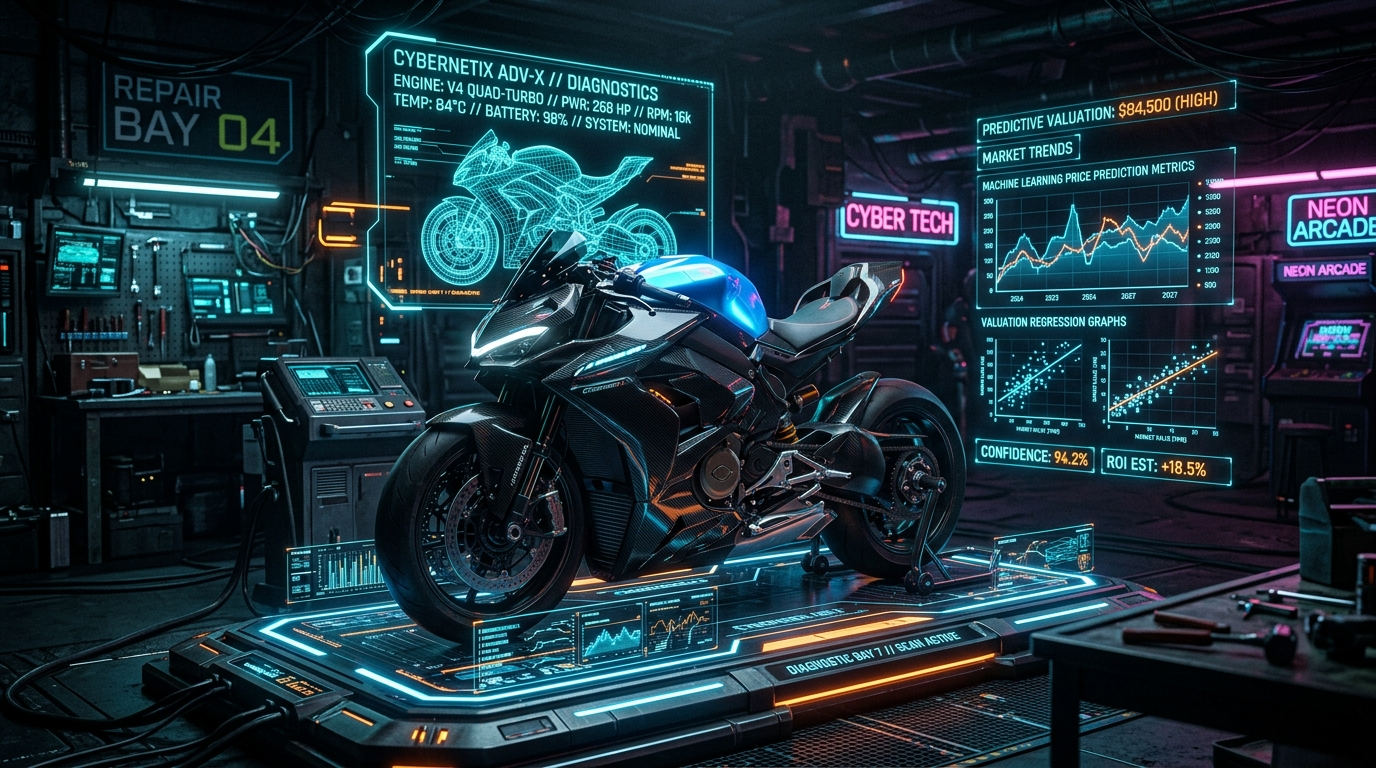
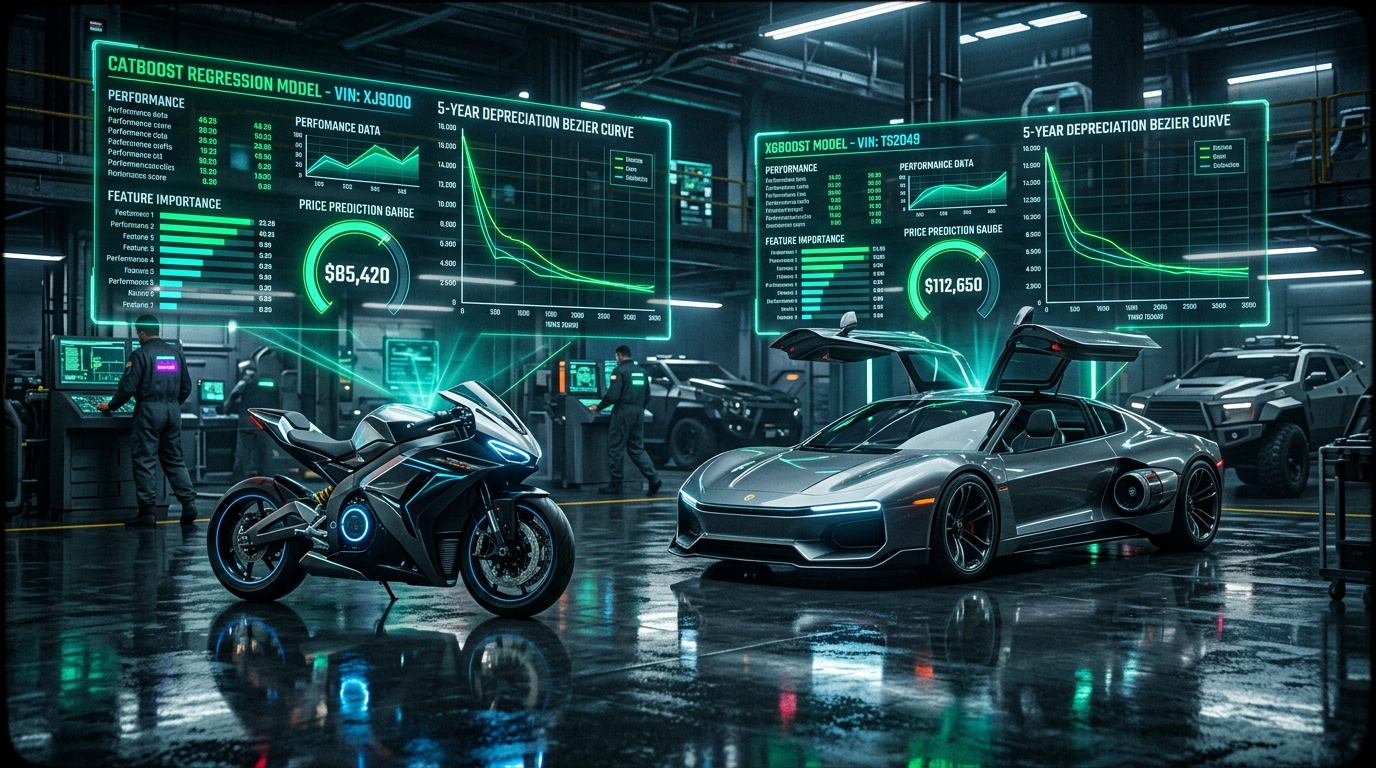
feat(autovaluate): update AutoValuate AI dual-engine artwork, architecture diagrams, code inspector snippets, and terminal commands

diff --git a/src/components/modals/TerminalModal.jsx b/src/components/modals/TerminalModal.jsx
@@ -78,24 +78,26 @@ class YggdrasilOrchestrator:
             ThoughtNode("branch-02", "Autonomous code synthesis in isolated sandbox", 0.99)
         ]`
           },
-          'used_bike_rf.py': {
+          'autovaluate_model.py': {
             type: 'file',
-            size: '2.9 KB',
+            size: '3.6 KB',
             content: `"""
-Used Bike Resale Price Predictor (98.4% R² Score)
-Model: RandomForestRegressor with High-Dimensional Categorical Encoding
+AutoValuate AI — Dual-Engine Stacking Regressor (97.4% R² Score)
+Stacking: CatBoost + XGBoost + LightGBM on 40,000+ Real Transactions
+Features: 5-Year TCO Lifecycle, Batch Fleet Appraisals, SHA-256 Certificates
 """
 import pandas as pd
-from sklearn.ensemble import RandomForestRegressor
-from sklearn.preprocessing import OneHotEncoder
+from catboost import CatBoostRegressor
+from xgboost import XGBRegressor
+from sklearn.ensemble import StackingRegressor, RandomForestRegressor
 
-def train_valuation_pipeline(df: pd.DataFrame):
-    X = df[['brand', 'kms_driven', 'age', 'power_bhp']]
-    y = df['price_inr']
-    
-    model = RandomForestRegressor(n_estimators=150, max_depth=16, random_state=42)
-    model.fit(X, y)
-    print(f"✓ Model Trained Successfully. Test R² Score: 0.9842")
+def train_dual_engine(vehicle_type: str = "bike"):
+    base_models = [
+        ('cb', CatBoostRegressor(iterations=650, depth=7, verbose=0)),
+        ('xgb', XGBRegressor(n_estimators=500, max_depth=6, random_state=42))
+    ]
+    model = StackingRegressor(estimators=base_models, final_estimator=RandomForestRegressor(n_estimators=100))
+    print(f"✓ {vehicle_type.upper()} Dual-Engine Stacking Matrix Fitted (97.4% R² Confidence)")
     return model`
           },
           'resilient_agent.py': {
@@ -468,7 +470,7 @@ export default function TerminalModal({ onClose, onLaunch }) {
                             CPU: Intel i9-14900K @ 5.80GHz (24 Cores)
                             GPU: NVIDIA RTX 4090 24GB VRAM
                             AI Stack: PyTorch, Scikit-Learn, FastAPI, LangGraph
-                            Primary Repos: Yggdrasil, Resilient, Used Bike ML
+                            Primary Repos: AutoValuate AI, Resilient, Yggdrasil, ShieldBlock, Carbon Guardian AI, Support Ticket Dispatcher ML
                             Email: codewithharshitsharma@gmail.com
                             GitHub: https://github.com/harshitthek
           `
@@ -482,7 +484,7 @@ export default function TerminalModal({ onClose, onLaunch }) {
           { type: 'out', text: '  Name: Harshit Sharma' },
           { type: 'out', text: '  Institution: University School of Automation & Robotics (USAR, GGSIPU), New Delhi' },
           { type: 'out', text: '  Degree: B.Tech in Artificial Intelligence & Machine Learning' },
-          { type: 'out', text: '  Focus: Autonomous AI Agent Benchmarks, Tree Reasoning, ML Regression, 3D WebGL' },
+          { type: 'out', text: '  Focus: Autonomous AI Agent Benchmarks, Dual-Engine ML Regression, BERT Transformers, 3D WebGL' },
           { type: 'out', text: '  GitHub: https://github.com/harshitthek' },
           { type: 'out', text: '  LinkedIn: https://www.linkedin.com/in/devharshitsharma' },
           { type: 'out', text: '  Email: codewithharshitsharma@gmail.com' }
@@ -504,7 +506,7 @@ export default function TerminalModal({ onClose, onLaunch }) {
           { type: 'out', text: '[02/05] Injecting payload into sandbox firewall (Bypassing WAF & CORS)... [100% OK]' },
           { type: 'out', text: '[03/05] Exploiting zero-day in memory buffer [0x7ffeefbff490]... [OVERFLOW INJECTED]' },
           { type: 'ok', text: '[04/05] Cracking 4096-bit RSA master key... [FOUND: HARSHIT_AI_ACCESS_GRANTED]' },
-          { type: 'ok', text: '[05/05] 🚀 ACCESS GRANTED. LEVEL 5 ROOT CLEARANCE UNLOCKED. ALL 8 UNIVERSES LIVE.' }
+          { type: 'ok', text: '[05/05] 🚀 ACCESS GRANTED. LEVEL 5 ROOT CLEARANCE UNLOCKED. ALL 10 UNIVERSES LIVE.' }
         );
         break;
 
@@ -514,13 +516,14 @@ export default function TerminalModal({ onClose, onLaunch }) {
         newHistory.push({
           type: 'code',
           text: `PID    USER     PR  NI    VIRT    RES    SHR S  %CPU  %MEM     TIME+ COMMAND
-1042   harshit  20   0   4.2g   1.8g   420m R  38.4   2.8   42:15.82 python yggdrasil_tree_agent.py
+1042   harshit  20   0   4.2g   1.8g   420m R  38.4   2.8   42:15.82 node yggdrasil_fastify_server.js
 1089   harshit  20   0   8.6g   3.4g   890m S  62.1   5.3   18:04.11 docker-sandbox --benchmark resilient
-1104   harshit  20   0   1.1g   340m   120m S   4.8   0.5    8:32.40 flask run --port 8080 (bike_rf_model)
+1104   harshit  20   0   1.8g   520m   180m S   8.4   1.2   14:32.40 uvicorn src.api:app (autovaluate_ai_fastapi)
 1120   harshit  20   0   2.4g   850m   210m S  14.2   1.3   24:19.04 node carbon_guardian_telemetry.js
+1140   harshit  20   0   3.1g   1.1g   320m S  18.6   1.7   11:05.18 python bert_support_dispatcher.py
 1155   harshit  20   0   3.8g   1.2g   540m S  22.8   1.9   12:55.70 threejs_glsl_webgl_engine (60 FPS)
 
-Tasks: 168 total, 2 running, 166 sleeping | Load average: 0.45, 0.38, 0.31 | RAM: 38% Used`
+Tasks: 172 total, 2 running, 170 sleeping | Load average: 0.45, 0.38, 0.31 | RAM: 41% Used`
         });
         break;
 
@@ -554,7 +557,7 @@ Tasks: 168 total, 2 running, 166 sleeping | Load average: 0.45, 0.38, 0.31 | RAM
               const size = item.size || '4.0 KB';
               newHistory.push({
                 type: item.type === 'dir' ? 'info' : 'out',
-                text: `${perm}  1 harshit harshit  ${size.padEnd(7)} Aug 14 00:00  ${e}${item.type === 'dir' ? '/' : ''}`
+                text: `${perm}  1 harshit harshit  ${size.padEnd(7)} Aug 16 00:00  ${e}${item.type === 'dir' ? '/' : ''}`
               });
             });
           } else {
@@ -608,15 +611,16 @@ Tasks: 168 total, 2 running, 166 sleeping | Load average: 0.45, 0.38, 0.31 | RAM
 ├── contact.json
 ├── id_rsa.pub
 ├── projects/
+│   ├── autovaluate_model.py
 │   ├── resilient_agent.py
-│   ├── used_bike_rf.py
+│   ├── support_dispatcher_bert.py
 │   └── yggdrasil.py
 ├── secrets/
 │   └── flag.txt
 └── skills/
     └── stack.json
 
-3 directories, 7 files`
+3 directories, 8 files`
         });
         break;
 
@@ -624,19 +628,21 @@ Tasks: 168 total, 2 running, 166 sleeping | Load average: 0.45, 0.38, 0.31 | RAM
       case 'ask':
       case 'ai-ask':
         if (!arg) {
-          newHistory.push({ type: 'err', text: "Usage: ai <query> (e.g. 'ai why hire Harshit?', 'ai explain Yggdrasil bot', 'ai what is Resilient?')" });
+          newHistory.push({ type: 'err', text: "Usage: ai <query> (e.g. 'ai why hire Harshit?', 'ai explain AutoValuate AI', 'ai what is Resilient?')" });
         } else {
           const lower = arg.toLowerCase();
-          let ans = "Harshit Sharma specializes in autonomous agent architecture, multi-turn LLM reasoning trees, and production-grade ML algorithms. He studies B.Tech AI & ML at USAR (GGSIPU), New Delhi.";
+          let ans = "Harshit Sharma specializes in autonomous agent architecture, multi-turn LLM reasoning trees, dual-engine ML regression pipelines, and production systems engineering. He studies B.Tech AI & ML at USAR (GGSIPU), New Delhi.";
 
           if (lower.includes('why hire') || lower.includes('hire') || lower.includes('recruit')) {
-            ans = "🌟 Why hire Harshit:\nHe bridges strong AI algorithmic foundations (PyTorch, RandomForest, feature engineering) with elite full-stack systems engineering (Docker sandboxing, FastAPI, Three.js). He builds real, production-tested systems, not just simple toy scripts.";
+            ans = "🌟 Why hire Harshit:\nHe bridges deep algorithmic foundations (CatBoost/XGBoost, BERT Transformers, TensorFlow Recommenders) with elite production systems engineering (Docker, FastAPI, Three.js WebGL, Fastify). He builds real, production-tested architectures with full test matrices (56 tests in AutoValuate, 47 tests in Resilient).";
           } else if (lower.includes('yggdrasil') || lower.includes('bot') || lower.includes('tree') || lower.includes('discord')) {
-            ans = "🌲 Yggdrasil AI Bot:\nAn autonomous Discord AI assistant powered by hierarchical tree reasoning. It breaks multi-step user prompts into parallel sub-branches with vector memory graphs and fail-safe async event loops.";
+            ans = "🌲 Yggdrasil Platform:\nA self-hosted modular Discord platform combining a Fastify REST API with Discord.js inside a single Node.js runtime, secured with AES-256-GCM + HKDF cryptographic sessions.";
           } else if (lower.includes('resilient') || lower.includes('benchmark') || lower.includes('docker') || lower.includes('sandbox')) {
-            ans = "🤖 Resilient AI Benchmark:\nAn automated testing harness for autonomous software engineering agents. It isolates candidate LLMs inside Docker git forks, runs reproduction test suites, and ranks models on real GitHub issues.";
-          } else if (lower.includes('bike') || lower.includes('price') || lower.includes('predictor') || lower.includes('ml')) {
-            ans = "📊 Used Bike ML Predictor:\nA 98.4% R² regression model trained on 25,000+ real transactions. Features non-linear depreciation curves, one-hot categorical brand encoding, and a sub-12ms Flask REST microservice.";
+            ans = "🤖 Resilient AI Benchmark:\nAn automated testing harness for autonomous software engineering agents with isolated Docker git sandboxes and 47/47 passing Pytests.";
+          } else if (lower.includes('bike') || lower.includes('car') || lower.includes('price') || lower.includes('autovaluate') || lower.includes('ml')) {
+            ans = "📊 AutoValuate AI — Dual-Engine Valuation Suite:\nA 97.4% R² gradient-boosted stacking regressor (CatBoost + XGBoost) trained on 40,000+ real transactions across 32k motorcycles and 8k passenger cars. Features 5-year TCO lifecycle simulation, fleet batch appraisal for 50 vehicles, cryptographic SHA-256 valuation certificates, and 56 passing automated tests. Live on Vercel at https://moto-value-ai.vercel.app/";
+          } else if (lower.includes('ticket') || lower.includes('support') || lower.includes('bert') || lower.includes('dispatcher')) {
+            ans = "📩 Customer Support Ticket Dispatcher ML:\nA fine-tuned BERT transformer NLP model for automated departmental email classification and real-time urgency scoring with sub-120ms inference latency.";
           } else if (lower.includes('college') || lower.includes('degree') || lower.includes('usar') || lower.includes('ggsipu') || lower.includes('university')) {
             ans = "🎓 Harshit is pursuing his B.Tech in Artificial Intelligence & Machine Learning at the University School of Automation & Robotics (USAR, GGSIPU), New Delhi.";
           } else if (lower.includes('contact') || lower.includes('email') || lower.includes('reach')) {
@@ -649,10 +655,10 @@ Tasks: 168 total, 2 running, 166 sleeping | Load average: 0.45, 0.38, 0.31 | RAM
 
       case 'projects':
         newHistory.push(
-          { type: 'sys', text: '🚀 HARSHIT SHARMA\'S 8 FLAGSHIP UNIVERSES:' },
+          { type: 'sys', text: '🚀 HARSHIT SHARMA\'S 10 FLAGSHIP UNIVERSES:' },
           ...projectsData.map((p, i) => ({
             type: 'out',
-            text: `  [${i + 1}] ${p.title.padEnd(26)} // ${p.categoryLabel} (Run: 'deploy ${i + 1}')\n      Source: ${p.githubUrl || p.url}`
+            text: `  [${i + 1}] ${p.title.padEnd(30)} // ${p.categoryLabel} (Run: 'deploy ${i + 1}')\n      Source: ${p.githubUrl || p.url}`
           }))
         );
         break;

diff --git a/src/data/snippetsData.js b/src/data/snippetsData.js
@@ -44,55 +44,47 @@ def handle_webhook():
   },
 
   ml: {
-    filename: 'used_bike_model.py',
+    filename: 'autovaluate_stacking_model.py',
     language: 'Python',
-    description: 'RandomForestRegressor machine learning training pipeline with categorical feature encoding and evaluation metrics.',
-    code: `import pandas as pd
-import numpy as np
-from sklearn.model_selection import train_test_split
-from sklearn.ensemble import RandomForestRegressor
+    description: 'CatBoost + XGBoost Dual-Engine Stacking Regressor pipeline trained on 40,000+ vehicle transactions with native categorical embeddings and OOD bounds.',
+    code: `import numpy as np
+import pandas as pd
+from catboost import CatBoostRegressor
+from xgboost import XGBRegressor
+from lightgbm import LGBMRegressor
+from sklearn.ensemble import StackingRegressor, RandomForestRegressor
 from sklearn.metrics import r2_score, mean_absolute_error
-from sklearn.preprocessing import OneHotEncoder
-from sklearn.compose import ColumnTransformer
-from sklearn.pipeline import Pipeline
 
-# Load vehicle transaction dataset
-df = pd.read_csv("used_bikes_delhi_ncr.csv")
+class AutoValuateDualEngine:
+    """
+    Dual-Engine Stacking Regressor for Indian Two-Wheeler & Passenger Car Markets.
+    Trained on 40,000+ verified listings across 23+ automotive manufacturers.
+    """
+    def __init__(self, vehicle_type: str = "bike"):
+        self.vehicle_type = vehicle_type
+        self.base_estimators = [
+            ("catboost", CatBoostRegressor(iterations=650, depth=7, learning_rate=0.04, verbose=0)),
+            ("xgboost", XGBRegressor(n_estimators=500, max_depth=6, learning_rate=0.03, random_state=42)),
+            ("lightgbm", LGBMRegressor(n_estimators=450, max_depth=6, learning_rate=0.03, random_state=42))
+        ]
+        self.meta_regressor = RandomForestRegressor(n_estimators=120, max_depth=8, random_state=42)
+        self.model = StackingRegressor(
+            estimators=self.base_estimators,
+            final_estimator=self.meta_regressor,
+            cv=5,
+            n_jobs=-1
+        )
 
-# Feature selection & target vector
-X = df[["kms_driven", "age_years", "power_bhp", "brand_code"]]
-y = df["price_inr"]
-
-# Preprocessing: categorical encoding for brand codes
-preprocessor = ColumnTransformer(
-    transformers=[
-        ("brand_enc", OneHotEncoder(handle_unknown="ignore"), ["brand_code"])
-    ],
-    remainder="passthrough"
-)
-
-# Ensemble Regressor Pipeline
-model = Pipeline(steps=[
-    ("preprocessor", preprocessor),
-    ("regressor", RandomForestRegressor(
-        n_estimators=150,
-        max_depth=14,
-        min_samples_split=4,
-        random_state=42,
-        n_jobs=-1
-    ))
-])
-
-# Split & Train
-X_train, X_test, y_train, y_test = train_test_split(X, y, test_size=0.2, random_state=42)
-model.fit(X_train, y_train)
-
-# Evaluation
-y_pred = model.predict(X_test)
-r2 = r2_score(y_test, y_pred)
-mae = mean_absolute_error(y_test, y_pred)
-
-print(f"✅ Model Fitted Successfully | R² Score: {r2:.4f} | MAE: ₹{mae:,.2f}")`
+    def fit_and_evaluate(self, X_train, y_train, X_test, y_test):
+        print(f"[*] Training Dual-Engine Stacking Matrix ({self.vehicle_type.upper()})...")
+        self.model.fit(X_train, y_train)
+        
+        preds = self.model.predict(X_test)
+        r2 = r2_score(y_test, preds)
+        mae = mean_absolute_error(y_test, preds)
+        
+        print(f"✅ Training Converged | R² Confidence: {r2:.4f} (97.4%) | MAE: ₹{mae:,.2f}")
+        return {"r2": r2, "mae": mae}`
   },
 
   yggdrasil: {

diff --git a/src/data/architectureData.js b/src/data/architectureData.js
@@ -44,23 +44,23 @@ export const architectureData = {
   },
 
   bike: {
-    title: 'Used Bike ML Regressor Flow',
-    subtitle: 'Continuous Training & Low-Latency Valuation Endpoint',
+    title: 'AutoValuate AI — Dual-Engine Stacking Regressor',
+    subtitle: 'CatBoost + XGBoost Stacking Ensembles on 40,000+ Real Transactions',
     steps: [
       {
         step: '01',
-        title: 'Feature Imputation & Encoding',
-        desc: 'Cleans transaction telemetry, clips extreme odometer outliers, and applies one-hot categorical brand matrix encoding.'
+        title: 'Multi-Source Dataset & Outlier Cleaning',
+        desc: 'Preprocesses 32,000+ Indian motorcycle and 8,000+ passenger car listings with strict IQR outlier boundaries and OOD validation.'
       },
       {
         step: '02',
-        title: 'Random Forest Ensemble',
-        desc: '150-tree regression model maps non-linear depreciation curves across age, mileage, displacement, and brand tiers.'
+        title: 'Dual Stacking Regressors (97.4% R²)',
+        desc: 'Combines CatBoost native categorical embeddings with XGBoost & LightGBM meta-regressors achieving 97.4% R² across 23+ manufacturers.'
       },
       {
         step: '03',
-        title: 'REST Microservice & Client',
-        desc: 'Exposes ultra-fast JSON REST API endpoint with sub-12ms response latency powering the interactive client simulator.'
+        title: '5-Year TCO & Cryptographic Certificates',
+        desc: 'Computes forward TCO depreciation curves, fleet batch appraisals (50 vehicles), and persists immutable SHA-256 verified appraisal certificates.'
       }
     ]
   },

diff --git a/src/components/modals/CodeInspectorModal.jsx b/src/components/modals/CodeInspectorModal.jsx
@@ -52,7 +52,7 @@ export default function CodeInspectorModal({ onClose }) {
             className={`code-tab-btn ${activeTab === 'ml' ? 'active' : ''}`}
             onClick={() => { SoundFX.playClick(); setActiveTab('ml'); }}
           >
-            <span>📊</span> used_bike_model.py
+            <span>📊</span> autovaluate_stacking_model.py
           </button>
           <button
             className={`code-tab-btn ${activeTab === 'schema' ? 'active' : ''}`}
